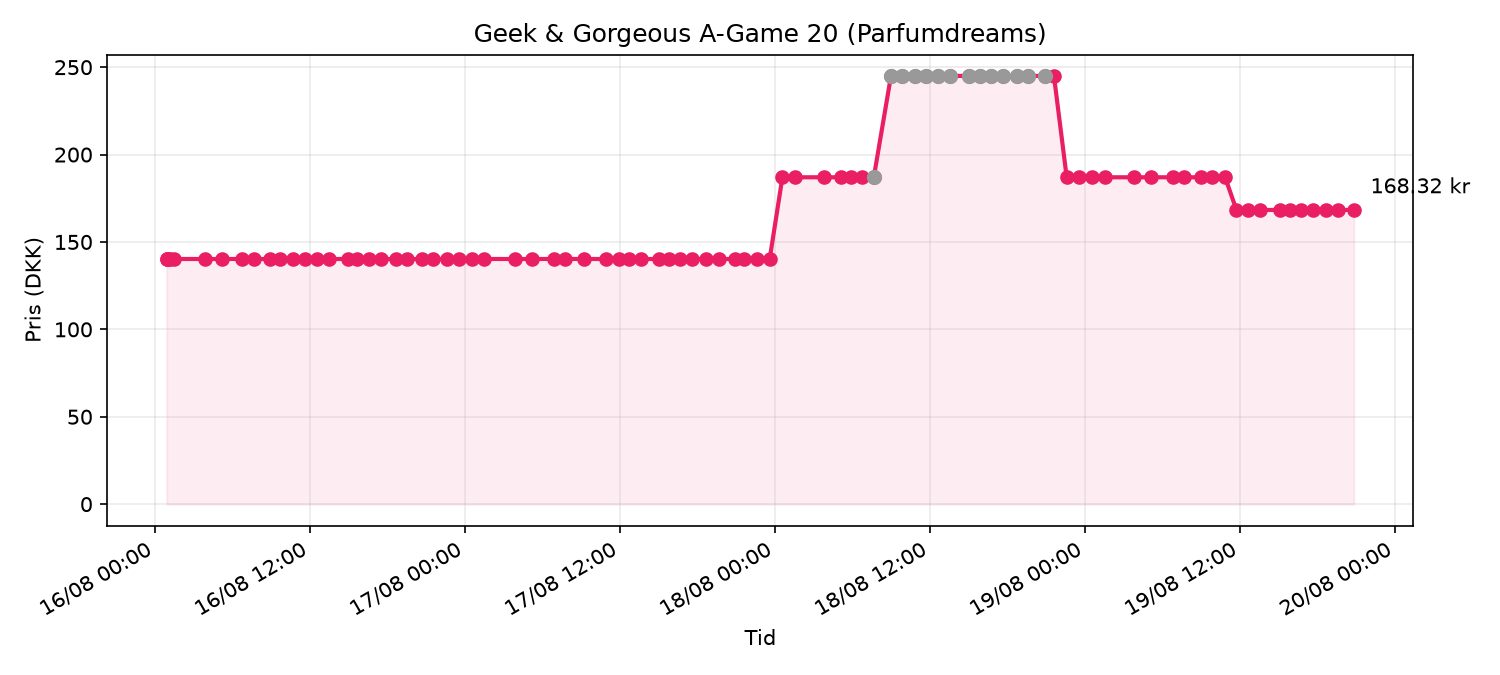
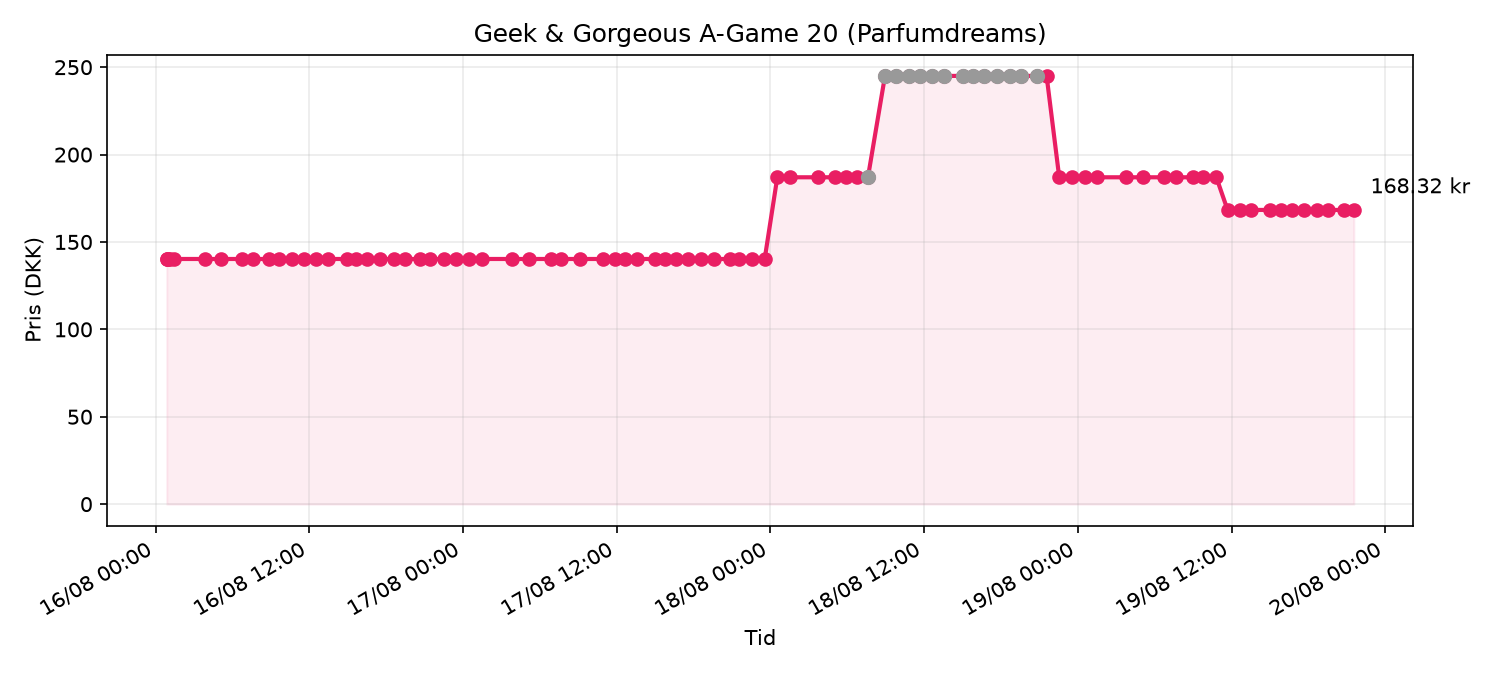
price check 2026-08-19T19:32Z

diff --git a/data/price_chart.html b/data/price_chart.html
@@ -13,7 +13,7 @@
 </head>
 <body>
   <h1>Geek & Gorgeous A-Game 20 (Parfumdreams)</h1>
-  <p class="meta">Senest tjekket: 19/08/2026 20:46 · Pris: <strong>168.32 kr</strong> · på lager</p>
+  <p class="meta">Senest tjekket: 19/08/2026 21:32 · Pris: <strong>168.32 kr</strong> · på lager</p>
   
   <p><a href="https://www.parfumdreams.dk/Geek-Gorgeous/Samlinger/101-aktive-stoffer/A-Game-20-Serum/index_137083.aspx?variation=221879">Åbn produkt på Parfumdreams</a></p>
   <img src="price_chart.png" alt="Prisgraf">
